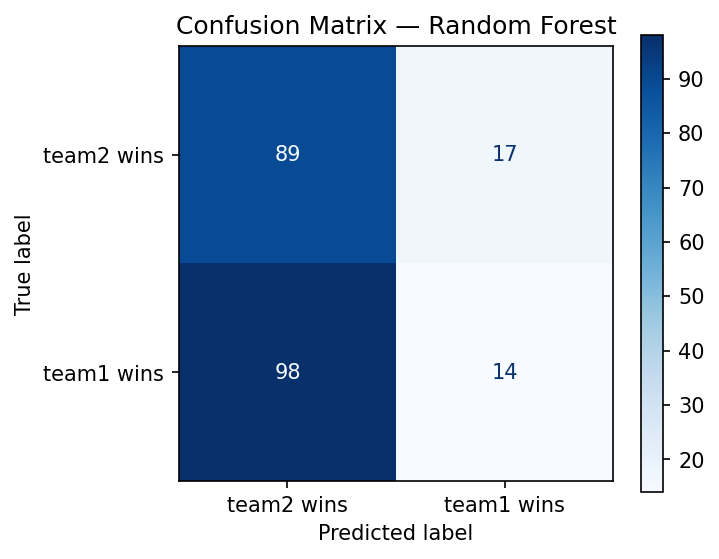
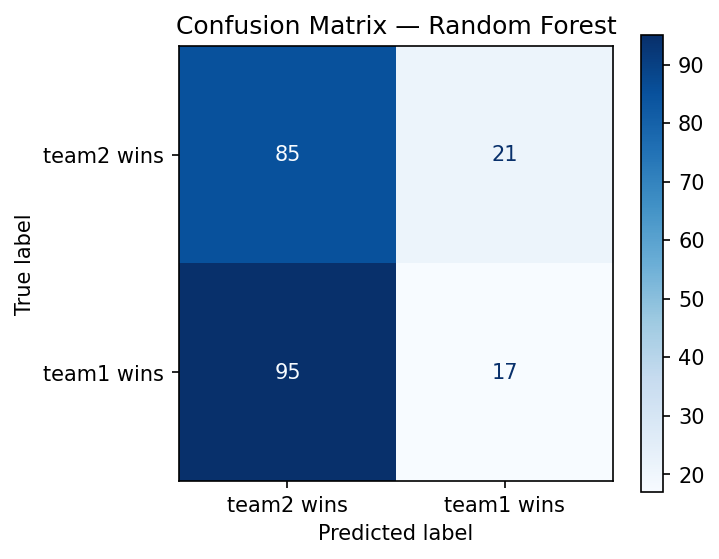
feat: add team-specific bat/field interaction features, retrain

diff --git a/src/predictor.py b/src/predictor.py
@@ -11,13 +11,22 @@ MODELS_DIR = Path("models")
 FEATURE_COLS = [
     "team1_won_toss",
     "toss_bat",
+    "team1_bats_first",
+    "team1_fields_first",
+    "team2_bats_first",
+    "team2_fields_first",
     "team1_home",
     "team2_home",
     "team1_form5",
     "team2_form5",
+    "team1_form10",
+    "team2_form10",
     "form_diff",
     "h2h_team1_win_pct",
     "toss_venue_adv",
+    "team1_venue_win_rate",
+    "team2_venue_win_rate",
+    "venue_win_diff",
     "season",
 ]
 
@@ -69,37 +78,64 @@ def load_models():
     return lr, rf
 
 
+def _fuzzy_get(lookup: dict, key: str, default=0.5):
+    """Partial string match for venue-keyed dicts."""
+    if key in lookup:
+        return lookup[key]
+    kl = key.lower()
+    for k, v in lookup.items():
+        if kl in k.lower() or k.lower() in kl:
+            return v
+    return default
+
+
 def load_historical_stats():
     """Pre-compute per-team and head-to-head stats from the processed features file."""
     feat_path = Path("data/processed/features.csv")
     if not feat_path.exists():
-        return {}, {}, {}
+        return {}, {}, {}, {}, {}
 
     df = pd.read_csv(feat_path, parse_dates=["date"])
     df = df.sort_values("date")
 
-    # Latest form5 per team (use last row each team appears)
-    form_t1 = df.groupby("team1")["team1_form5"].last().to_dict()
-    form_t2 = df.groupby("team2")["team2_form5"].last().to_dict()
-    team_form = {}
-    for k, v in form_t1.items():
-        team_form[k] = v
-    for k, v in form_t2.items():
-        if k not in team_form:
-            team_form[k] = v
-        else:
-            team_form[k] = (team_form[k] + v) / 2
+    # Latest form5 and form10 per team
+    def _merge_team_stat(col_t1, col_t2):
+        d1 = df.groupby("team1")[col_t1].last().to_dict()
+        d2 = df.groupby("team2")[col_t2].last().to_dict()
+        merged = dict(d1)
+        for k, v in d2.items():
+            merged[k] = (merged[k] + v) / 2 if k in merged else v
+        return merged
+
+    team_form5  = _merge_team_stat("team1_form5",  "team2_form5")
+    team_form10 = _merge_team_stat("team1_form10", "team2_form10")
 
     # Head-to-head: most recent value
     h2h = {}
     for _, row in df.iterrows():
-        key = (row["team1"], row["team2"])
-        h2h[key] = row["h2h_team1_win_pct"]
+        h2h[(row["team1"], row["team2"])] = row["h2h_team1_win_pct"]
 
-    # Toss-venue advantage: most recent per venue
+    # Toss-venue advantage per venue
     toss_venue = df.groupby("venue")["toss_venue_adv"].last().to_dict()
 
-    return team_form, h2h, toss_venue
+    # Team venue win rate: (team, venue) → win rate
+    team_venue = {}
+    for col, rate_col in [("team1", "team1_venue_win_rate"), ("team2", "team2_venue_win_rate")]:
+        for _, row in df.iterrows():
+            team_venue[(row[col], row["venue"])] = row[rate_col]
+
+    return team_form5, team_form10, h2h, toss_venue, team_venue
+
+
+def _get_venue_win_rate(team: str, venue: str, team_venue: dict) -> float:
+    """Fuzzy venue match for team-venue win rate."""
+    if (team, venue) in team_venue:
+        return team_venue[(team, venue)]
+    vl = venue.lower()
+    for (t, v), val in team_venue.items():
+        if t == team and (vl in v.lower() or v.lower() in vl):
+            return val
+    return 0.5
 
 
 def predict_match(
@@ -112,43 +148,63 @@ def predict_match(
     lr_model,
     rf_model,
     team_form: dict,
+    team_form10: dict,
     h2h: dict,
     toss_venue: dict,
+    team_venue: dict,
 ) -> dict:
-    t1_form = team_form.get(team1, 0.5)
-    t2_form = team_form.get(team2, 0.5)
+    t1_form  = team_form.get(team1, 0.5)
+    t2_form  = team_form.get(team2, 0.5)
+    t1_form10 = team_form10.get(team1, 0.5)
+    t2_form10 = team_form10.get(team2, 0.5)
 
     h2h_pct = h2h.get((team1, team2), None)
     if h2h_pct is None:
         h2h_pct = 1 - h2h.get((team2, team1), 0.5)
 
-    tva = _get_toss_venue_adv(venue, toss_venue)
+    tva  = _get_toss_venue_adv(venue, toss_venue)
+    t1vr = _get_venue_win_rate(team1, venue, team_venue)
+    t2vr = _get_venue_win_rate(team2, venue, team_venue)
+
+    t1_toss = int(toss_winner == team1)
+    t2_toss = int(toss_winner == team2)
+    is_bat  = int(toss_decision.lower() == "bat")
+    is_fld  = 1 - is_bat
 
     row = {
-        "team1_won_toss": int(toss_winner == team1),
-        "toss_bat": int(toss_decision.lower() == "bat"),
-        "team1_home": _is_home(team1, venue),
-        "team2_home": _is_home(team2, venue),
-        "team1_form5": t1_form,
-        "team2_form5": t2_form,
-        "form_diff": t1_form - t2_form,
-        "h2h_team1_win_pct": h2h_pct,
-        "toss_venue_adv": tva,
-        "season": season,
+        "team1_won_toss":      t1_toss,
+        "toss_bat":            is_bat,
+        "team1_bats_first":    t1_toss * is_bat,
+        "team1_fields_first":  t1_toss * is_fld,
+        "team2_bats_first":    t2_toss * is_bat,
+        "team2_fields_first":  t2_toss * is_fld,
+        "team1_home":          _is_home(team1, venue),
+        "team2_home":          _is_home(team2, venue),
+        "team1_form5":         t1_form,
+        "team2_form5":         t2_form,
+        "team1_form10":        t1_form10,
+        "team2_form10":        t2_form10,
+        "form_diff":           t1_form - t2_form,
+        "h2h_team1_win_pct":   h2h_pct,
+        "toss_venue_adv":      tva,
+        "team1_venue_win_rate": t1vr,
+        "team2_venue_win_rate": t2vr,
+        "venue_win_diff":      t1vr - t2vr,
+        "season":              season,
     }
 
     X = pd.DataFrame([row])[FEATURE_COLS]
 
-    lr_prob = lr_model.predict_proba(X)[0][1]
-    rf_prob = rf_model.predict_proba(X)[0][1]
+    lr_prob       = lr_model.predict_proba(X)[0][1]
+    rf_prob       = rf_model.predict_proba(X)[0][1]
     ensemble_prob = (lr_prob + rf_prob) / 2
 
     return {
-        "team1": team1,
-        "team2": team2,
-        "lr_prob_team1": lr_prob,
-        "rf_prob_team1": rf_prob,
+        "team1":               team1,
+        "team2":               team2,
+        "lr_prob_team1":       lr_prob,
+        "rf_prob_team1":       rf_prob,
         "ensemble_prob_team1": ensemble_prob,
-        "predicted_winner": team1 if ensemble_prob >= 0.5 else team2,
-        "confidence": max(ensemble_prob, 1 - ensemble_prob),
+        "predicted_winner":    team1 if ensemble_prob >= 0.5 else team2,
+        "confidence":          max(ensemble_prob, 1 - ensemble_prob),
     }

diff --git a/src/feature_engineering.py b/src/feature_engineering.py
@@ -114,6 +114,25 @@ def toss_venue_advantage(df: pd.DataFrame) -> pd.Series:
     return pd.Series(records, index=df.index)
 
 
+def team_venue_win_rate(df: pd.DataFrame, team_col: str) -> pd.Series:
+    """Historical win rate for each team at each venue (computed before current match)."""
+    records = []
+    venue_team_history: dict[tuple, list[int]] = {}
+
+    for _, row in df.iterrows():
+        team = row[team_col]
+        venue = row["venue"]
+        key = (team, venue)
+        hist = venue_team_history.get(key, [])
+        pct = sum(hist) / len(hist) if hist else 0.5
+        records.append(pct)
+
+        won = 1 if row["winner"] == team else 0
+        venue_team_history.setdefault(key, []).append(won)
+
+    return pd.Series(records, index=df.index)
+
+
 def build_features(df: pd.DataFrame) -> pd.DataFrame:
     feat = pd.DataFrame(index=df.index)
 
@@ -126,13 +145,22 @@ def build_features(df: pd.DataFrame) -> pd.DataFrame:
     # Toss decision: bat=1, field=0
     feat["toss_bat"] = (df["toss_decision"].str.lower() == "bat").astype(int)
 
+    # Interaction: did TEAM1 specifically bat first / field first?
+    # Much stronger signal than raw toss_bat alone
+    feat["team1_bats_first"]   = ((df["toss_winner"] == df["team1"]) & (df["toss_decision"].str.lower() == "bat")).astype(int)
+    feat["team1_fields_first"] = ((df["toss_winner"] == df["team1"]) & (df["toss_decision"].str.lower() == "field")).astype(int)
+    feat["team2_bats_first"]   = ((df["toss_winner"] == df["team2"]) & (df["toss_decision"].str.lower() == "bat")).astype(int)
+    feat["team2_fields_first"] = ((df["toss_winner"] == df["team2"]) & (df["toss_decision"].str.lower() == "field")).astype(int)
+
     # Home advantage
     feat["team1_home"] = df.apply(lambda r: is_home(r["team1"], r["venue"]), axis=1)
     feat["team2_home"] = df.apply(lambda r: is_home(r["team2"], r["venue"]), axis=1)
 
-    # Rolling form (last 5)
+    # Rolling form (last 5 and last 10)
     feat["team1_form5"] = rolling_win_pct(df, "team1", n=5)
     feat["team2_form5"] = rolling_win_pct(df, "team2", n=5)
+    feat["team1_form10"] = rolling_win_pct(df, "team1", n=10)
+    feat["team2_form10"] = rolling_win_pct(df, "team2", n=10)
     feat["form_diff"] = feat["team1_form5"] - feat["team2_form5"]
 
     # Head-to-head
@@ -141,8 +169,13 @@ def build_features(df: pd.DataFrame) -> pd.DataFrame:
     # Toss × venue historical advantage
     feat["toss_venue_adv"] = toss_venue_advantage(df)
 
-    # Season (year) as ordinal feature
-    feat["season"] = df["season"].astype(str).str[:4].astype(int)
+    # Team-specific venue win rate (strongest new feature)
+    feat["team1_venue_win_rate"] = team_venue_win_rate(df, "team1")
+    feat["team2_venue_win_rate"] = team_venue_win_rate(df, "team2")
+    feat["venue_win_diff"] = feat["team1_venue_win_rate"] - feat["team2_venue_win_rate"]
+
+    # Season — extract starting year correctly (e.g. "2009/10" → 2009, "2024" → 2024)
+    feat["season"] = df["season"].astype(str).str.split("/").str[0].astype(int)
 
     # Keep identifiers for display (not used in model)
     feat["team1"] = df["team1"].values

diff --git a/src/train_model.py b/src/train_model.py
@@ -32,13 +32,22 @@ from feature_engineering import run as build_features_run
 FEATURE_COLS = [
     "team1_won_toss",
     "toss_bat",
+    "team1_bats_first",
+    "team1_fields_first",
+    "team2_bats_first",
+    "team2_fields_first",
     "team1_home",
     "team2_home",
     "team1_form5",
     "team2_form5",
+    "team1_form10",
+    "team2_form10",
     "form_diff",
     "h2h_team1_win_pct",
     "toss_venue_adv",
+    "team1_venue_win_rate",
+    "team2_venue_win_rate",
+    "venue_win_diff",
     "season",
 ]
 
